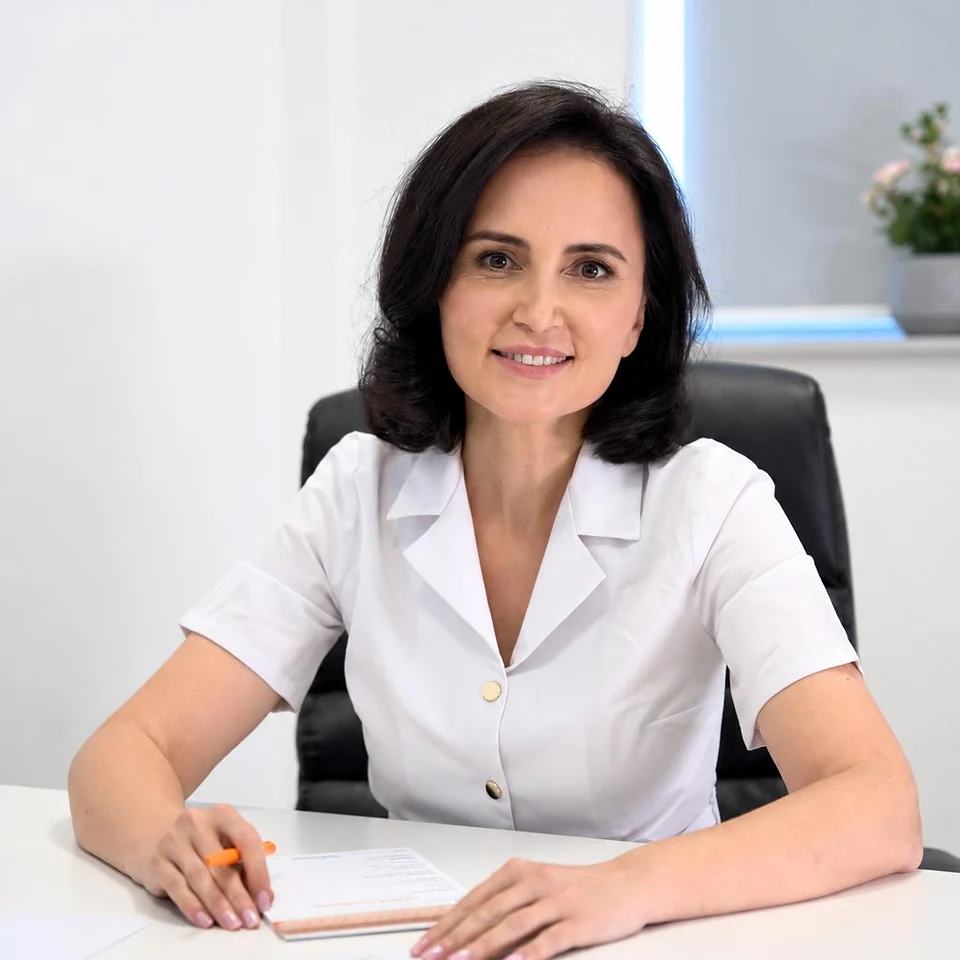
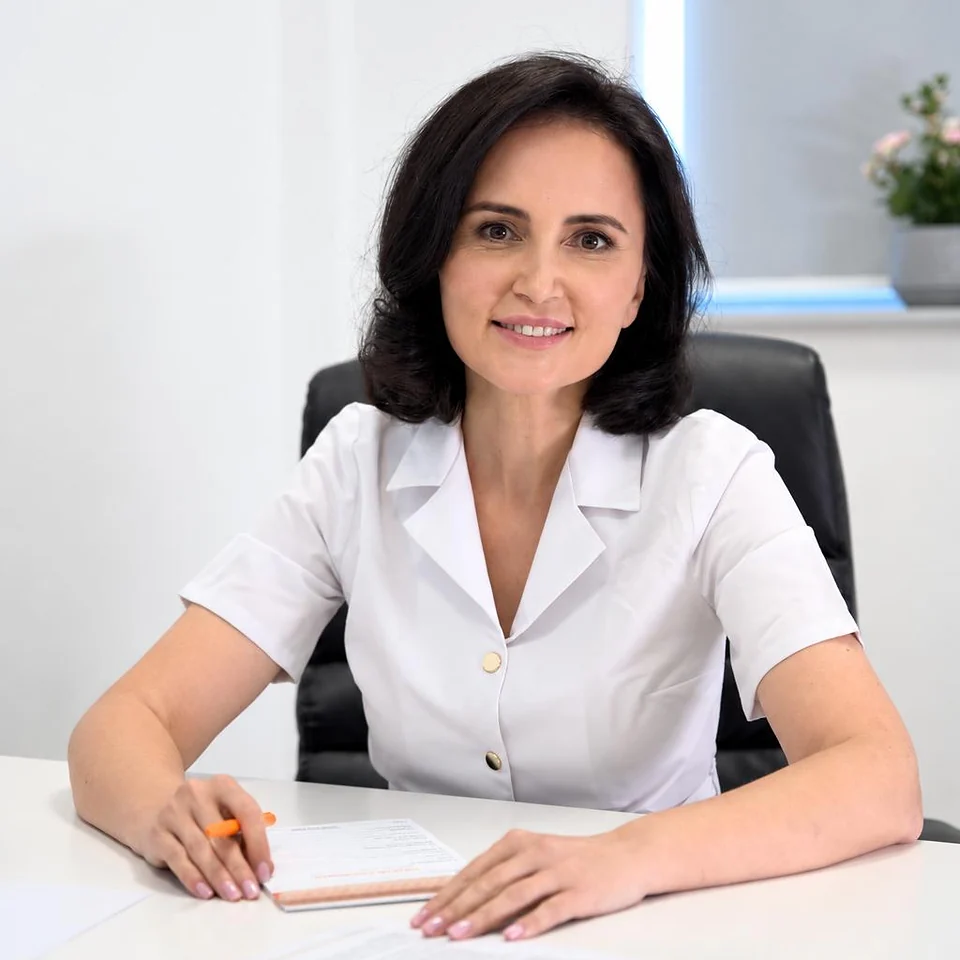
Varianta 1: calendarul tiparit in movul temei, poza de pe Etape cu degetele intregi
Din auditul cererilor ei (21.10): zilele de sedinta ieseau la tipar in
albastrul vechi; decupajul pozei de la biroul alb taia varful degetelor.

Changed region(s): [[0.0, 0.0312, 1.0, 1.0]]

diff --git a/mov-portret/assets/css/gral.css b/mov-portret/assets/css/gral.css
@@ -1734,7 +1734,7 @@ ul {
 @media print{
   .unealta__formular,.rez__actiuni,.pagina-hero,.chemare,.subsol,.avertisment,.banda-draft{display:none !important}
   .unealta{display:block}
-  .cal__zi--sedinta{background:#3d50b5 !important;-webkit-print-color-adjust:exact;print-color-adjust:exact}
+  .cal__zi--sedinta{background:var(--albastru) !important;-webkit-print-color-adjust:exact;print-color-adjust:exact}
   .cal__zi--final{background:var(--accent) !important;-webkit-print-color-adjust:exact;print-color-adjust:exact}
 }
 
